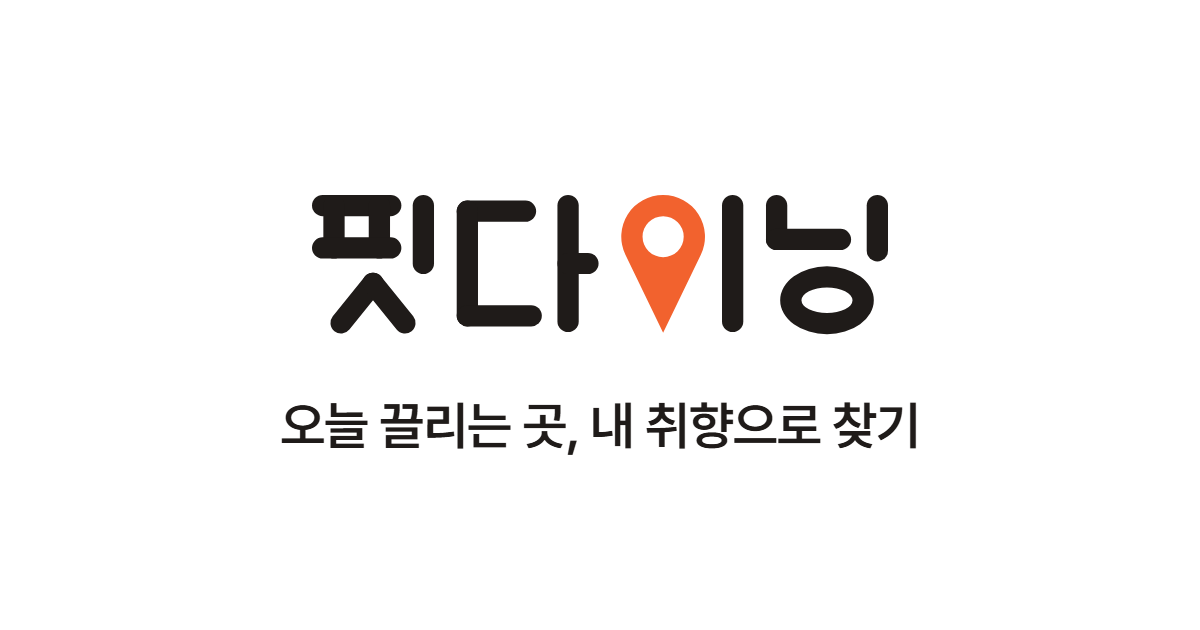
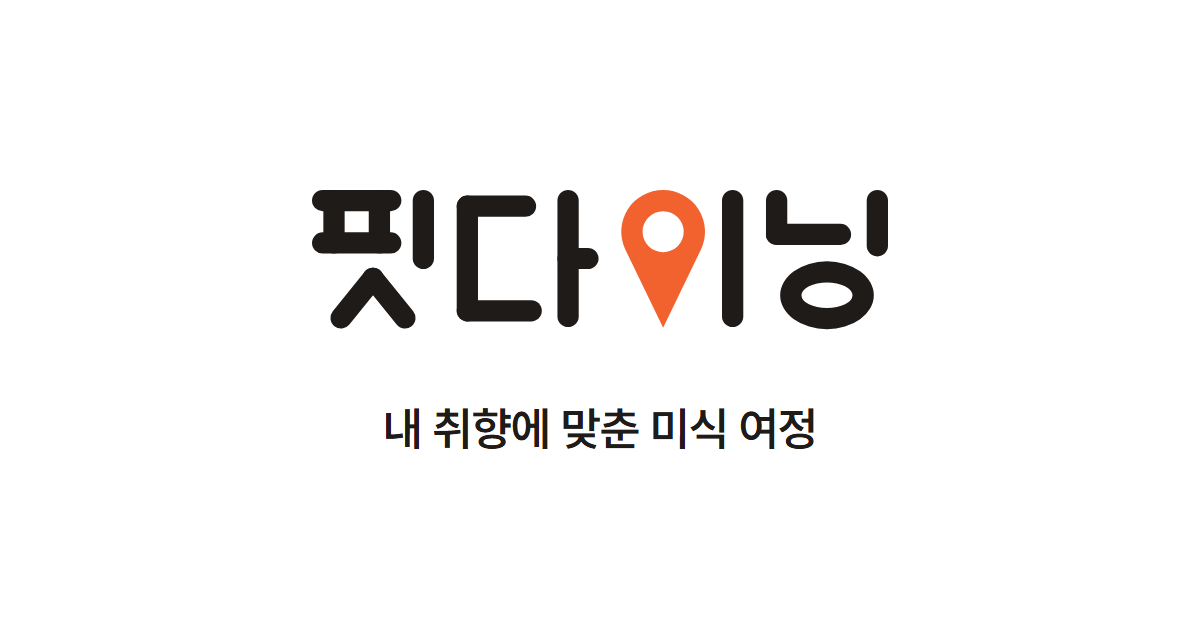
[S15P31A302-145] feat: 캐치프레이즈를 "내 취향에 맞춘 미식 여정"으로 바꾸고 공유 이미지를 다시 만든다
공유 이미지(opengraph-image.png)의 문구와 대체 텍스트, 매니페스트 설명을 새 캐치프레이즈로 바꾼다.

diff --git a/fe/src/app/manifest.ts b/fe/src/app/manifest.ts
@@ -7,7 +7,7 @@ export default function manifest(): MetadataRoute.Manifest {
     id: "/",
     name: "핏다이닝",
     short_name: "핏다이닝",
-    description: "오늘 끌리는 곳, 내 취향으로 찾기",
+    description: "내 취향에 맞춘 미식 여정",
     start_url: "/",
     display: "standalone",
     theme_color: "#ffffff",
